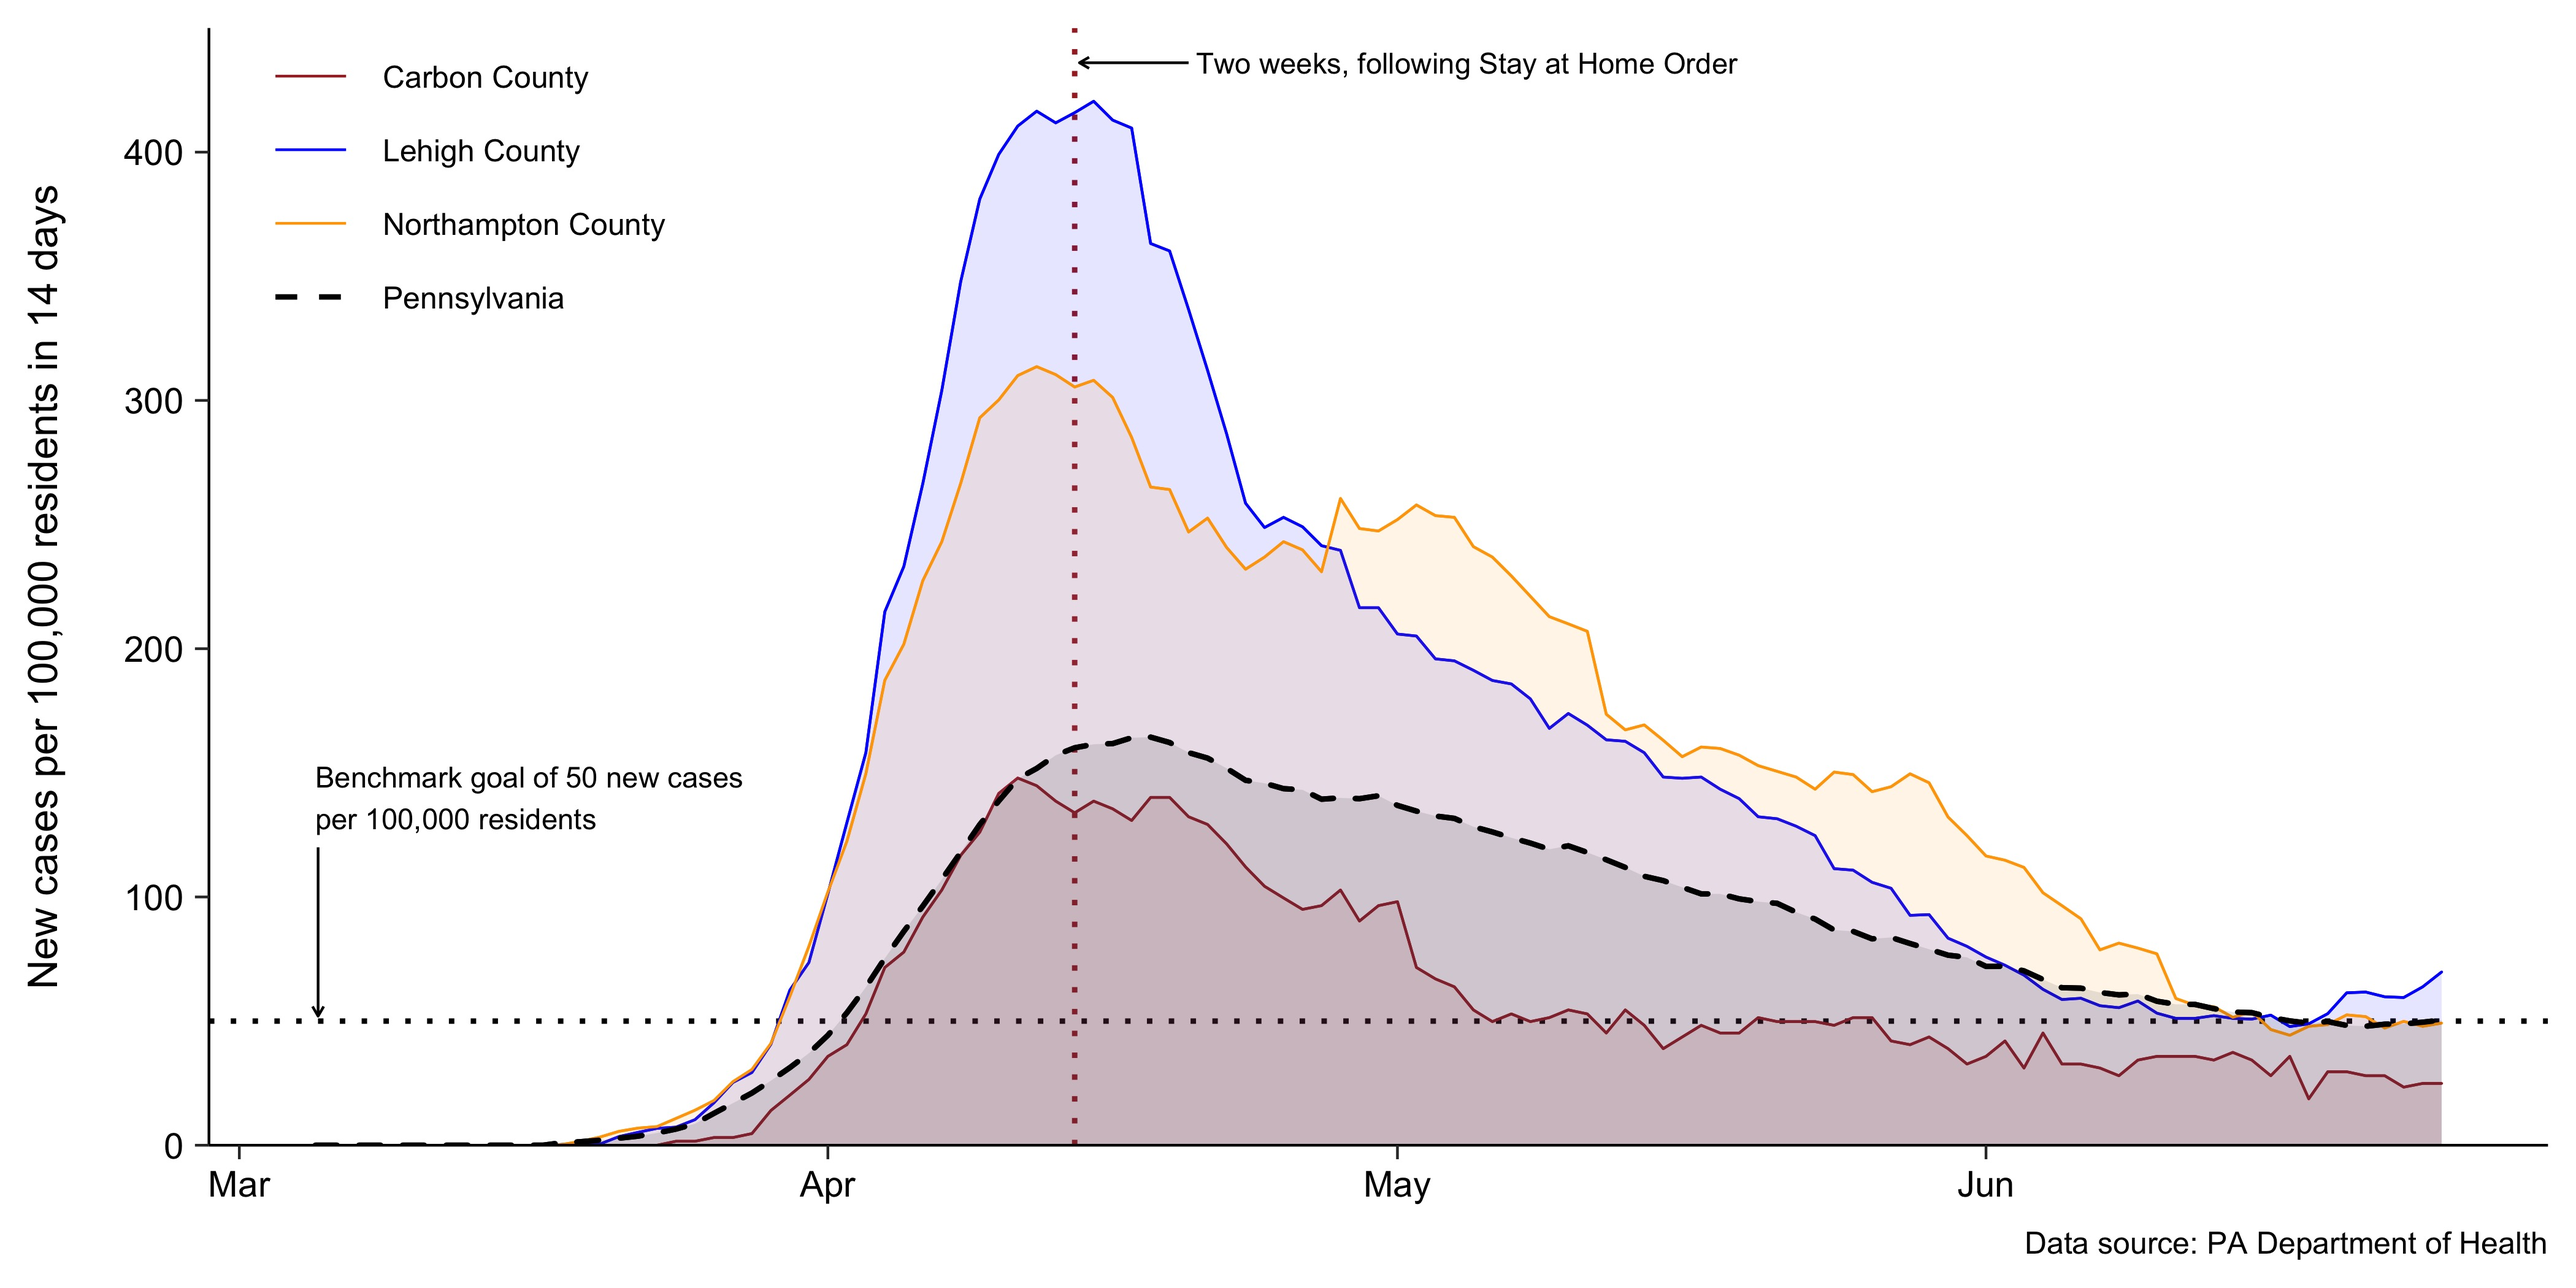
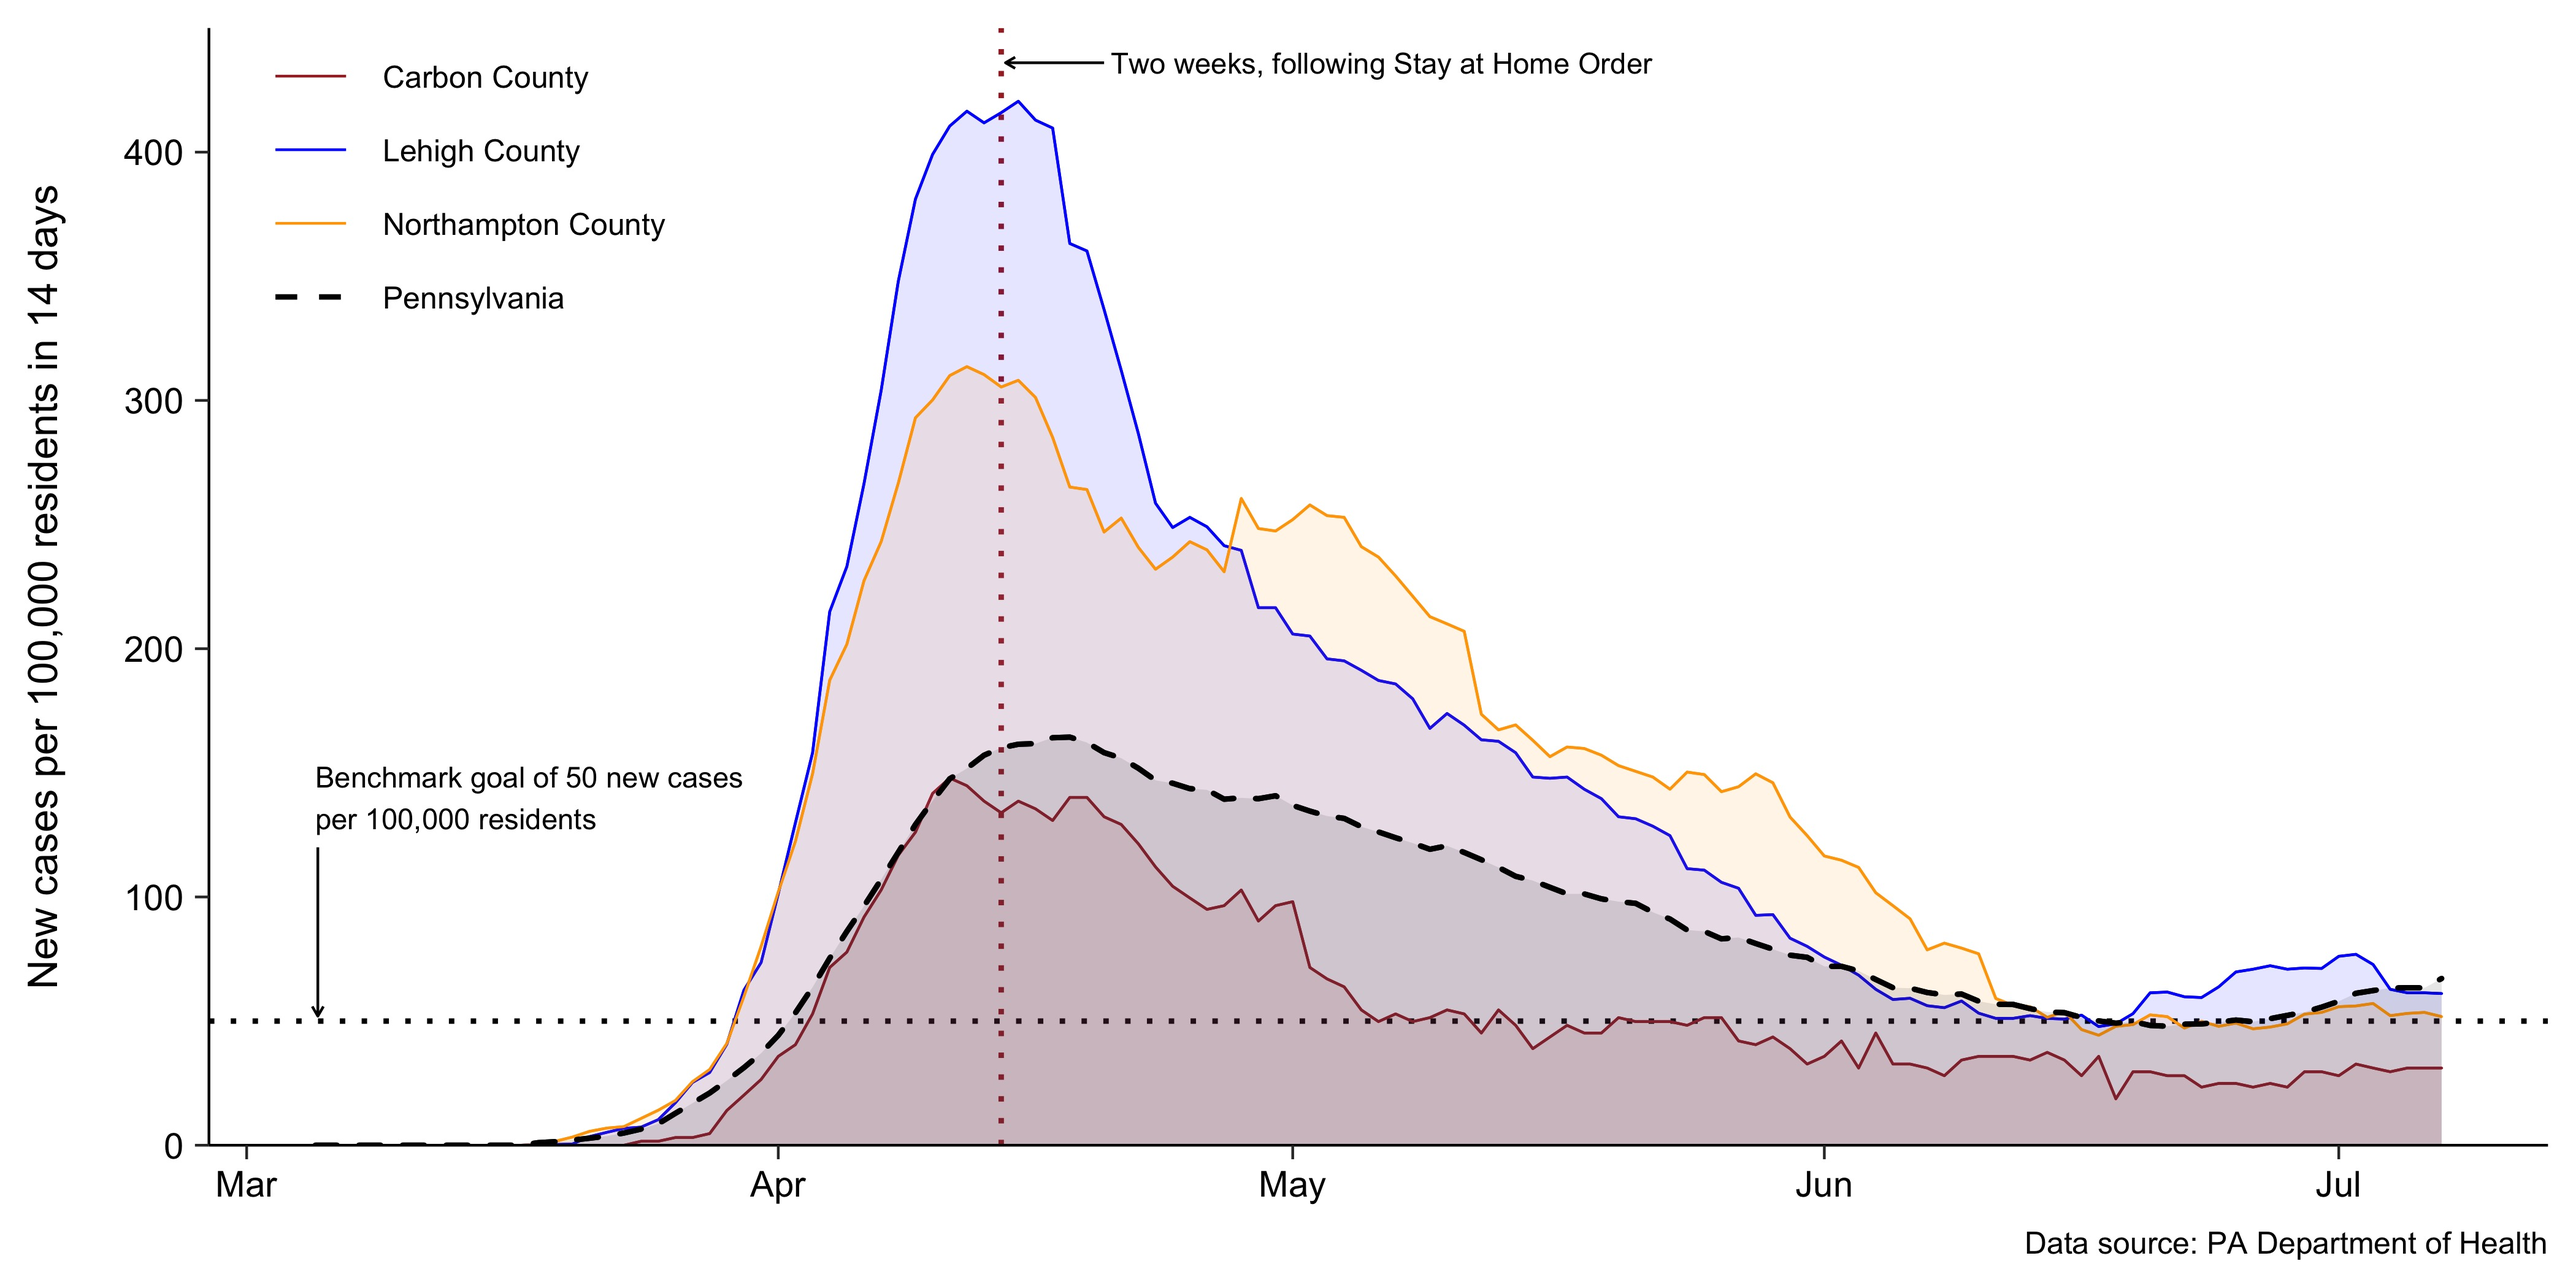
Updates

diff --git a/index.html b/index.html
@@ -248,18 +248,19 @@ library(xml2)      # Package to work with XML files
 * Set urls for PA Department of Health web pages (cases and deaths)
 
 ```r
-url1 &lt;- 'https://www.health.pa.gov/topics/disease/coronavirus/Pages/Archives.aspx'
+url1 &lt;- 'https://www.health.pa.gov/topics/disease/coronavirus/Pages/June-Archive.aspx'
 url2 &lt;- 'https://www.health.pa.gov/topics/disease/coronavirus/Pages/Death-Data.aspx'
 ```
 ]
 
 --
 
-.tiny[
+.tiny3[
 * Set XPath for web page table(s)
 
 ```r
-xpath &lt;- '//*[@id="ctl00_PlaceHolderMain_PageContent__ControlWrapper_RichHtmlField"]/table'
+xpath1 &lt;- '//*[@id="ctl00_PlaceHolderMain_PageContent__ControlWrapper_RichHtmlField"]/span/table'
+xpath2 &lt;- '//*[@id="ctl00_PlaceHolderMain_PageContent__ControlWrapper_RichHtmlField"]/table'
 ```
 ]
 
@@ -271,7 +272,7 @@ xpath &lt;- '//*[@id="ctl00_PlaceHolderMain_PageContent__ControlWrapper_RichHtml
 ```r
 cases &lt;- url1 %&gt;%                # Scrape data
   read_html() %&gt;%
-  html_nodes(xpath=xpath) %&gt;%
+  html_nodes(xpath=xpath1) %&gt;%
   html_table()
 cases &lt;- cases[[8]]              # Select table number
 cases &lt;- cases[-1,]              # Remove first row, which contains table headers
@@ -306,7 +307,7 @@ head(cases, 10)                  # View first five rows of data frame
 ```r
 deaths &lt;- url2 %&gt;%                 # Scrape data
   read_html() %&gt;%
-  html_nodes(xpath=xpath) %&gt;%
+  html_nodes(xpath=xpath2) %&gt;%
   html_table()
 deaths &lt;- deaths[[1]]              # Select table number
 deaths &lt;- deaths[-1,]              # Remove first row, which contains table headers
@@ -492,8 +493,8 @@ raw_list
 .tiny2[
 
 ```
-[1] "/topics/Documents/Diseases%20and%20Conditions/COVID-19%20County%20Data/County%20Case%20Counts_6-25-2020.pdf"                     
-[2] "/topics/Documents/Diseases%20and%20Conditions/COVID-19%20Death%20Data/Death%20by%20County%20of%20Residence%20--%202020-06-25.pdf"
+[1] "/topics/Documents/Diseases%20and%20Conditions/COVID-19%20County%20Data/County%20Case%20Counts_7-7-2020.pdf"                      
+[2] "/topics/Documents/Diseases%20and%20Conditions/COVID-19%20Death%20Data/Death%20by%20County%20of%20Residence%20--%202020-07-07.pdf"
 ```
 ]
 
@@ -545,11 +546,11 @@ head(cases, 5)  # View first 5 rows of data frame
 
 ```
 ##      County Cases
-## 1     Adams   323
-## 2 Allegheny  2321
-## 3 Armstrong    70
-## 4    Beaver   637
-## 5   Bedford    72
+## 1     Adams   358
+## 2 Allegheny  3979
+## 3 Armstrong    79
+## 4    Beaver   770
+## 5   Bedford    90
 ```
 ]
 
@@ -580,11 +581,11 @@ head(deaths, 5)  # View first 5 rows of data frame
 
 ```
 ##      County Deaths
-## 1     Adams      3
+## 1     Adams      5
 ## 2 Allegheny      8
-## 3 Armstrong     29
-## 4    Beaver     33
-## 5   Bedford     17
+## 3 Armstrong     30
+## 4    Beaver     34
+## 5   Bedford     23
 ```
 ]
 
@@ -619,16 +620,16 @@ head(df, 10)                                           # View first 10 rows of d
 
 ```
 ##       County Cases Deaths
-## 1      Adams   323      3
-## 2  Allegheny  2321      8
-## 3  Armstrong    70     29
-## 4     Beaver   637     33
-## 5    Bedford    72     17
-## 6      Berks  4461     20
-## 7      Blair    69      1
-## 8   Bradford    51     17
-## 9      Bucks  5649     28
-## 10    Butler   280      4
+## 1      Adams   358      5
+## 2  Allegheny  3979      8
+## 3  Armstrong    79     30
+## 4     Beaver   770     34
+## 5    Bedford    90     23
+## 6      Berks  4606     20
+## 7      Blair    89      1
+## 8   Bradford    59     16
+## 9      Bucks  5948     29
+## 10    Butler   370      5
 ```
 
 ]

diff --git a/custom.css b/custom.css
@@ -110,6 +110,10 @@ th, td { padding: 5px; }
   font-size: 50% !important;
 }
 
+.tiny3 .remark-code { /*Change made here*/
+  font-size: 60% !important;
+}
+
 .pull-left4 {
   float: left;
   width: 44%;
